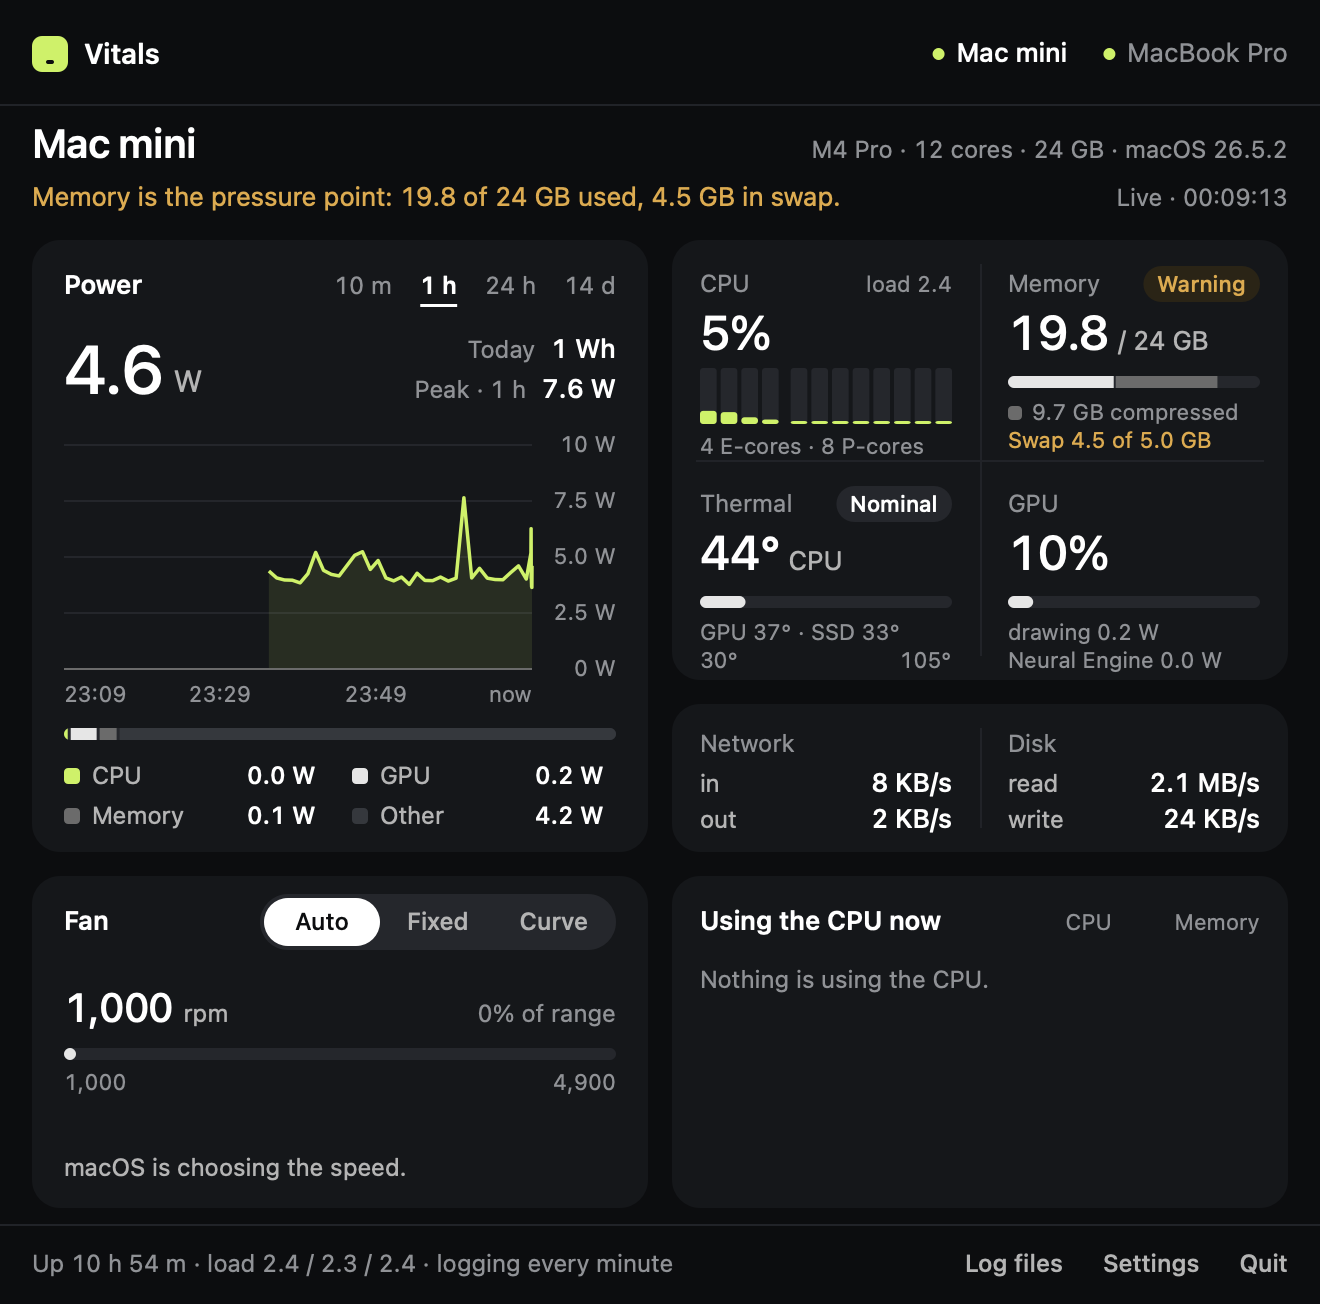
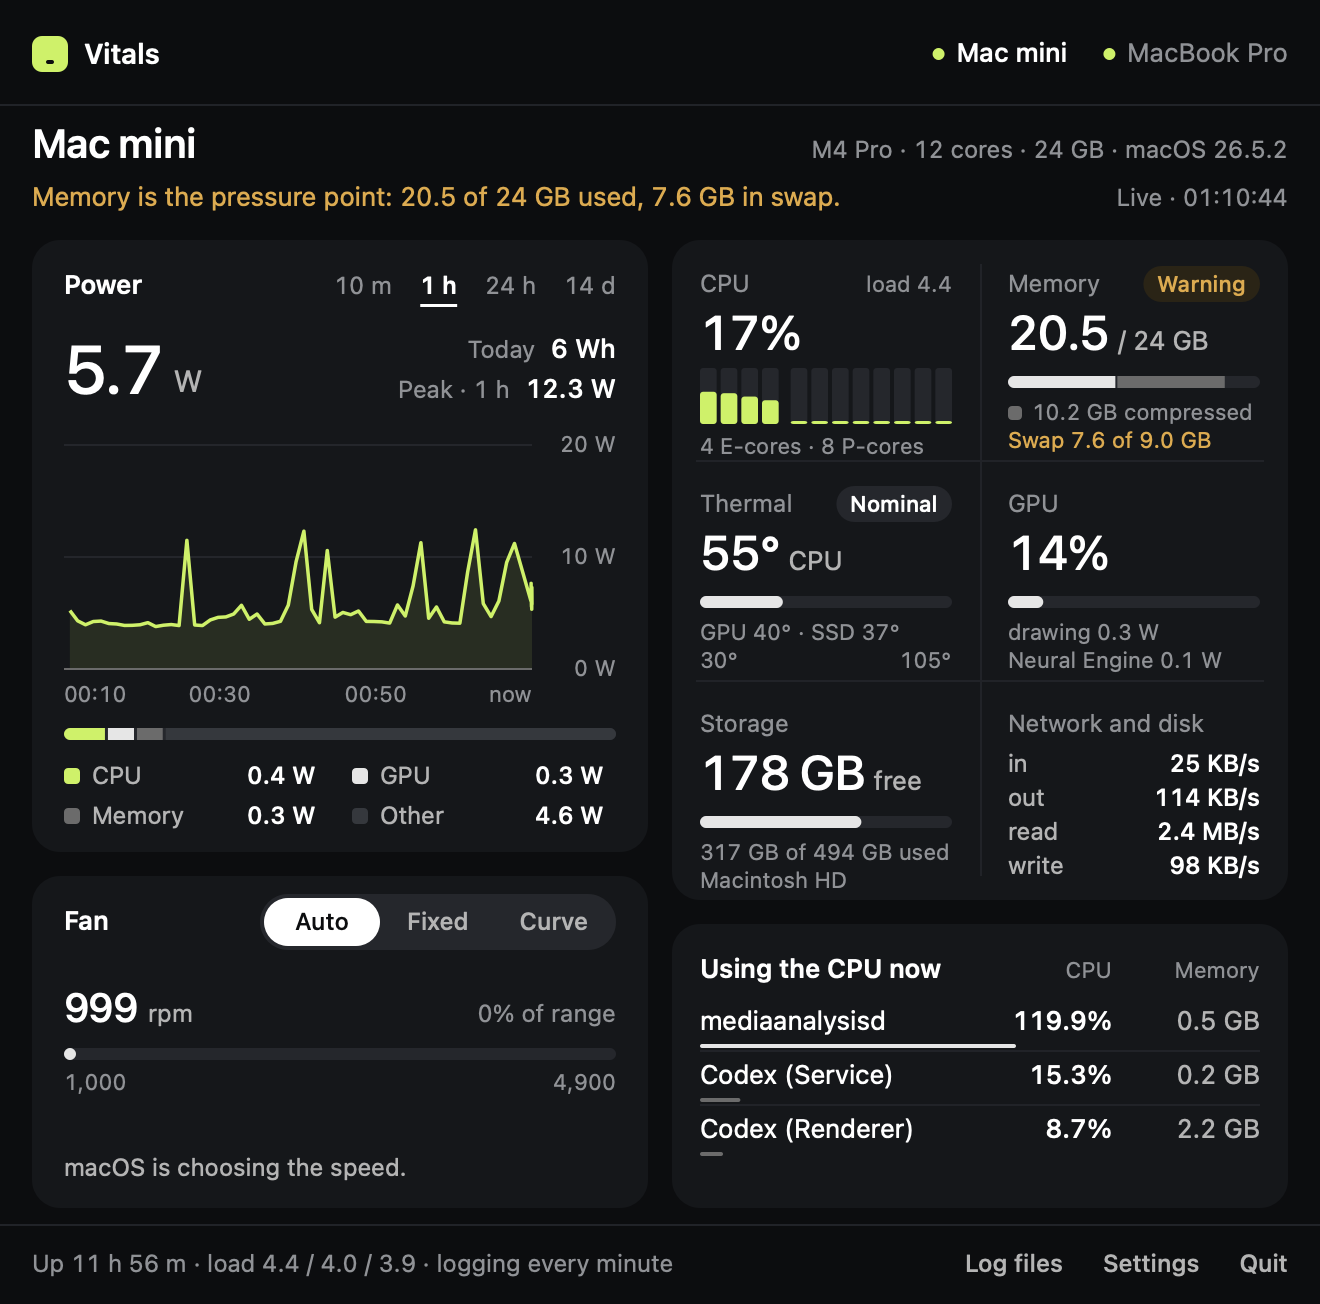
Show storage on each Mac; run fan writes through a root driver
Storage: the boot drive's free space (purgeable counted as Finder does) and
any other local drive, in a new grid cell with a Low / Almost full flag and
a finding when the boot drive is nearly full. Network and disk throughput
move into the same grid, replacing their separate card.

Fan control: the streaming agent now always runs as the user. When a fan
leaves Auto it starts the root-owned copy as a driver and hands it the
policy; going back to Auto, quitting or a dropped connection closes the
driver, which returns the fans to macOS. Agent updates no longer need the
root copy to be reinstalled.

Also: the finding line no longer says "nothing in particular" while the
process list is still loading.

diff --git a/Sources/App/Dashboard.swift b/Sources/App/Dashboard.swift
@@ -50,10 +50,7 @@ final class Dashboard: Canvas {
         let fanTop = left + gap
         left = fanTop
         fanCard(l, s, x: pad, y: &left)
-        let powerBottom = fanTop - gap
         pressureGrid(s, x: pad + colW + gap, y: &right)
-        right += gap
-        ioCard(s, x: pad + colW + gap, y: &right, bottom: powerBottom)
         right += gap
         procCard(s, x: pad + colW + gap, y: &right, bottom: left)
         let bottom = max(left, right)
@@ -117,12 +114,18 @@ final class Dashboard: Canvas {
     private func finding(_ l: HostLink, _ s: Snapshot?) -> (String, NSColor) {
         if case .offline(let why) = l.state { return (why, Theme.negative) }
         guard let s else { return (l.isLocal ? "Starting the agent on this Mac…" : "Connecting to \(l.sshHost ?? "")…", Theme.muted) }
-        let topProc = s.procs.first.map { $0.name } ?? "nothing in particular"
+        let topProc = s.procs.first?.name
         if s.thermal >= 2 { return ("Thermal pressure is \(s.thermal == 2 ? "serious" : "critical"): macOS is slowing the chip to cool it.", Theme.negative) }
+        if let b = s.volumes.first(where: \.boot), b.free < 8e9 || b.free / max(1, b.total) < 0.05 {
+            return ("Storage is almost full: \(Fmt.size(b.free)) free of \(Fmt.size(b.total)) on \(b.name).", Theme.negative)
+        }
         if s.pressure >= 4 { return ("Memory pressure is critical: \(Fmt.gb(s.swapUsed)) GB is in swap and apps are being squeezed.", Theme.negative) }
-        if let t = s.tCPU, t >= 90 { return ("CPU at \(Fmt.temp(t)) with fans at \(Fmt.rpm(s.fans.map(\.rpm).max() ?? 0)) rpm; \(topProc) is the main load.", Theme.warning) }
+        if let t = s.tCPU, t >= 90 {
+            let fans = s.fans.isEmpty ? "" : " with fans at \(Fmt.rpm(s.fans.map(\.rpm).max() ?? 0)) rpm"
+            return ("CPU at \(Fmt.temp(t))\(fans)" + (topProc.map { "; \($0) is the main load." } ?? "."), Theme.warning)
+        }
         if s.pressure >= 2 { return ("Memory is the pressure point: \(Fmt.gb(s.memUsed)) of \(Fmt.gb(s.memTotal, 0)) GB used, \(Fmt.gb(s.swapUsed)) GB in swap.", Theme.warning) }
-        if let c = s.cpu, c >= 70 { return ("CPU is busy at \(Fmt.pct(c)); \(topProc) is using the most.", Theme.text) }
+        if let c = s.cpu, c >= 70 { return ("CPU is busy at \(Fmt.pct(c))" + (topProc.map { "; \($0) is using the most." } ?? "."), Theme.text) }
         if let b = s.battery, !b.external {
             let left = b.minutesLeft.map { " · \(Fmt.duration(Double($0) * 60)) left at this rate" } ?? ""
             return ("On battery at \(Int(b.percent))%\(left).", Theme.text)
@@ -454,9 +457,10 @@ final class Dashboard: Canvas {
 
     private func pressureGrid(_ s: Snapshot?, x: CGFloat, y: inout CGFloat) {
         let w = colW, cellW = w / 2, cellH: CGFloat = 110, top = y
-        fill(NSRect(x: x, y: top, width: w, height: cellH * 2), Theme.surface, radius: 14)
-        vline(x + cellW, top + 12, cellH * 2 - 24, Theme.line)
+        fill(NSRect(x: x, y: top, width: w, height: cellH * 3), Theme.surface, radius: 14)
+        vline(x + cellW, top + 12, cellH * 3 - 24, Theme.line)
         hline(x + 12, top + cellH, w - 24, Theme.line)
+        hline(x + 12, top + cellH * 2, w - 24, Theme.line)
 
         // CPU: one bar per core, the chip drawn as itself.
         cell(x, top, "CPU", Fmt.pct(s?.cpu), sub: s.map { "load " + String(format: "%.1f", $0.load.first ?? 0) })
@@ -530,7 +534,33 @@ final class Dashboard: Canvas {
             drawText("drawing \(Fmt.wattsUnit(s.wGPU))", Theme.font(11), Theme.faint, mx + 14, ty + 79)
             drawText("Neural Engine \(Fmt.wattsUnit(s.wANE))", Theme.font(11), Theme.faint, mx + 14, ty + 93)
         }
-        y = top + cellH * 2
+
+        // Storage: the boot drive, then any other local drive.
+        let sy = top + cellH * 2
+        if let s, let boot = s.volumes.first(where: \.boot) ?? s.volumes.first {
+            cell(x, sy, "Storage", Fmt.size(boot.free), unit: "free")
+            let freeShare = boot.free / max(1, boot.total)
+            if freeShare < 0.05 || boot.free < 8e9 { pill("Almost full", Theme.pillBad, right: x + cellW - 14, sy + 13) }
+            else if freeShare < 0.12 { pill("Low", Theme.pillWarn, right: x + cellW - 14, sy + 13) }
+            let bar = NSRect(x: x + 14, y: sy + 68, width: cellW - 28, height: 6)
+            fill(bar, Theme.raised, radius: 3)
+            let usedColor = freeShare < 0.05 ? Theme.negative : freeShare < 0.12 ? Theme.warning : Theme.chart2
+            fill(NSRect(x: bar.minX, y: bar.minY, width: max(6, bar.width * CGFloat(1 - freeShare)), height: 6), usedColor, radius: 3)
+            drawText("\(Fmt.size(boot.total - boot.free)) of \(Fmt.size(boot.total)) used", Theme.font(11), Theme.faint, x + 14, sy + 79, maxWidth: cellW - 28)
+            let others = s.volumes.filter { $0 != boot }
+            let more = others.first.map { "\($0.name) · \(Fmt.size($0.free)) free" + (others.count > 1 ? " +\(others.count - 1)" : "") } ?? boot.name
+            drawText(more, Theme.font(11), Theme.faint, x + 14, sy + 93, maxWidth: cellW - 28)
+        } else { cell(x, sy, "Storage", "—") }
+
+        // Network and disk throughput.
+        drawText("Network and disk", Theme.font(12), Theme.faint, mx + 14, sy + 14)
+        let rows: [(String, Double?)] = [("in", s?.netIn), ("out", s?.netOut), ("read", s?.diskRead), ("write", s?.diskWrite)]
+        for (j, (name, v)) in rows.enumerated() {
+            let ry = sy + 34 + CGFloat(j) * 17
+            drawText(name, Theme.font(12), Theme.muted, mx + 14, ry)
+            drawText(Fmt.rate(v), Theme.font(12, .medium), Theme.text, mx + cellW - 14, ry, align: .right)
+        }
+        y = top + cellH * 3
     }
 
     private func cell(_ x: CGFloat, _ y: CGFloat, _ label: String, _ value: String, unit: String? = nil, sub: String? = nil) {
@@ -542,22 +572,6 @@ final class Dashboard: Canvas {
     }
 
     // MARK: network and disk
-
-    private func ioCard(_ s: Snapshot?, x: CGFloat, y: inout CGFloat, bottom: CGFloat) {
-        let w = colW, top = y, h = max(70, bottom - top)
-        fill(NSRect(x: x, y: top, width: w, height: h), Theme.surface, radius: 14)
-        vline(x + w / 2, top + 12, h - 24, Theme.line)
-        for (i, (label, a, b)) in [("Network", ("in", s?.netIn), ("out", s?.netOut)), ("Disk", ("read", s?.diskRead), ("write", s?.diskWrite))].enumerated() {
-            let cx = x + CGFloat(i) * w / 2 + 14, cw = w / 2 - 28
-            drawText(label, Theme.font(12), Theme.faint, cx, top + 12)
-            for (j, (name, v)) in [a, b].enumerated() {
-                let ry = top + 32 + CGFloat(j) * 18
-                drawText(name, Theme.font(12), Theme.muted, cx, ry)
-                drawText(Fmt.rate(v), Theme.font(13, .medium), Theme.text, cx + cw, ry - 1, align: .right)
-            }
-        }
-        y = top + h
-    }
 
     // MARK: processes
 

diff --git a/Sources/Agent/main.swift b/Sources/Agent/main.swift
@@ -22,20 +22,65 @@ func fail(_ msg: String) -> Never { FileHandle.standardError.write((msg + "\n").
 
 var signalSources: [DispatchSourceSignal] = []
 
+/// Fan writes need root. The streaming agent runs as you; when a fan leaves Auto it starts the
+/// root-owned copy (allowed by the sudo rule from `setup-root`) as a driver and passes it the policy.
+/// Closing the driver's input hands the fans back to macOS, also if this agent dies.
+final class FanDriver {
+    static let path = rootPath
+    let available: Bool
+    private(set) var policy = "auto"
+    private var proc: Process?
+    private var input: FileHandle?
+
+    init() {
+        available = FileManager.default.isExecutableFile(atPath: Self.path) && run("/usr/bin/sudo", ["-n", "-l", Self.path, "stream"]) == 0
+    }
+
+    func set(_ p: String) {
+        policy = p
+        guard available else { return }
+        if p == "auto" { stop(); return }
+        if proc?.isRunning != true { start() }
+        send("fan \(p)")
+    }
+
+    private func start() {
+        let p = Process()
+        p.executableURL = URL(fileURLWithPath: "/usr/bin/sudo")
+        p.arguments = ["-n", Self.path, "stream"]
+        let pipe = Pipe()
+        p.standardInput = pipe
+        p.standardOutput = FileHandle.nullDevice
+        p.standardError = FileHandle.nullDevice
+        guard (try? p.run()) != nil else { return }
+        proc = p; input = pipe.fileHandleForWriting
+        send("interval 2")
+    }
+
+    func stop() {
+        try? input?.close()
+        input = nil; proc = nil
+    }
+
+    private func send(_ line: String) { try? input?.write(contentsOf: Data((line + "\n").utf8)) }
+}
+
 func stream() -> Never {
     let sampler = Sampler(procs: false)
     let fans = (geteuid() == 0) ? sampler.smc.map { FanControl(smc: $0) } : nil
+    let driver = fans == nil ? FanDriver() : nil
     var interval = 2.0
     let timer = DispatchSource.makeTimerSource(queue: .main)
 
     func tick() {
         var s = sampler.sample()
         fans?.apply(cpuTemp: s.tCPU)
-        s.fanPolicy = fans?.policy.text ?? "auto"
+        s.fanPolicy = fans?.policy.text ?? driver?.policy ?? "auto"
+        if let driver { s.root = driver.available }
         emit(s)
     }
     func schedule() { timer.schedule(deadline: .now() + interval, repeating: interval, leeway: .milliseconds(Int(interval * 100))) }
-    func quit() -> Never { fans?.release(); exit(0) }
+    func quit() -> Never { fans?.release(); driver?.stop(); usleep(300_000); exit(0) }
 
     timer.setEventHandler(handler: tick)
     _ = sampler.sample()                        // prime the counters so the first line has rates
@@ -59,7 +104,8 @@ func stream() -> Never {
             DispatchQueue.main.async {
                 switch w.first {
                 case "interval": if let v = w.dropFirst().first.flatMap(Double.init), v >= 0.5, v <= 60 { interval = v; schedule() }
-                case "fan": if let p = FanControl.Policy(Array(w.dropFirst())) { fans?.set(p); tick() }
+                case "fan":
+                    if let p = FanControl.Policy(Array(w.dropFirst())) { fans?.set(p); driver?.set(p.text); tick() }
                 case "now": tick()
                 case "procs": sampler.withProcs = w.dropFirst().first == "on"
                 default: break

diff --git a/Sources/Core/Sampler.swift b/Sources/Core/Sampler.swift
@@ -52,6 +52,7 @@ final class Sampler {
     private var ssdKey: String?
     private var hotKeys: [String] = []      // the hottest CPU sensors at the last full scan
     private var ticks = 0
+    private var volumeCache: (Date, [Volume]) = (.distantPast, [])
     private lazy var hasBattery = !registryProperty("AppleSmartBattery", "CurrentCapacity").isEmpty
     private let eCores = (sysctlString("hw.perflevel1.name") == "Efficiency") ? (sysctlInt("hw.perflevel1.logicalcpu") ?? 0) : 0
 
@@ -90,6 +91,7 @@ final class Sampler {
         if s.wSystem == nil, let b = s.battery, let w = b.inWatts { s.wSystem = w }
         sampleIO(&s)
         if withProcs { s.procs = topProcs() } else { prevProcTime = 0 }
+        s.volumes = volumes()
         var boot = timeval(), size = MemoryLayout<timeval>.size
         if sysctlbyname("kern.boottime", &boot, &size, nil, 0) == 0 { s.uptime = s.t - Double(boot.tv_sec) }
         s.thermal = ProcessInfo.processInfo.thermalState.rawValue
@@ -223,6 +225,24 @@ final class Sampler {
         }
         if let p = prevDisk, now > p.2 { s.diskRead = max(0, rd - p.0) / (now - p.2); s.diskWrite = max(0, wr - p.1) / (now - p.2) }
         prevDisk = (rd, wr, now)
+    }
+
+    /// The boot volume and any other local drives. Free space counts purgeable files, as Finder does;
+    /// working that out is slow, so it is refreshed once a minute.
+    private func volumes() -> [Volume] {
+        if Date().timeIntervalSince(volumeCache.0) < 60 { return volumeCache.1 }
+        let keys: [URLResourceKey] = [.volumeLocalizedNameKey, .volumeTotalCapacityKey, .volumeAvailableCapacityForImportantUsageKey,
+                                      .volumeAvailableCapacityKey, .volumeIsRootFileSystemKey, .volumeIsLocalKey, .volumeIsBrowsableKey]
+        let urls = FileManager.default.mountedVolumeURLs(includingResourceValuesForKeys: keys, options: [.skipHiddenVolumes]) ?? []
+        let vols: [Volume] = urls.compactMap { u in
+            guard let r = try? u.resourceValues(forKeys: Set(keys)), r.volumeIsLocal == true, r.volumeIsBrowsable != false,
+                  let total = r.volumeTotalCapacity, total > 1_000_000_000 else { return nil }
+            let boot = r.volumeIsRootFileSystem == true
+            let free = r.volumeAvailableCapacityForImportantUsage.map(Double.init) ?? Double(r.volumeAvailableCapacity ?? 0)
+            return Volume(name: r.volumeLocalizedName ?? u.lastPathComponent, total: Double(total), free: free, boot: boot)
+        }.sorted { $0.boot && !$1.boot }
+        volumeCache = (Date(), vols)
+        return vols
     }
 
     /// The eight processes using the most CPU since the last sample, helpers grouped under one name.

diff --git a/Sources/Core/Model.swift b/Sources/Core/Model.swift
@@ -2,7 +2,7 @@ import Foundation
 
 // The wire format between the agent (on each Mac) and the menu bar app: one JSON object per line.
 
-let vitalsVersion = "1.0.3"
+let vitalsVersion = "1.0.4"
 
 struct Fan: Codable, Equatable {
     var rpm: Double
@@ -23,6 +23,13 @@ struct Battery: Codable, Equatable {
     var health: Double?           // % of design capacity
     var minutesLeft: Int?
     var temp: Double?
+}
+
+struct Volume: Codable, Equatable {
+    var name: String
+    var total: Double             // bytes
+    var free: Double              // bytes available, purgeable space counted as free (as Finder does)
+    var boot: Bool
 }
 
 struct Proc: Codable, Equatable {
@@ -76,6 +83,7 @@ struct Snapshot: Codable {
     var netOut: Double?
     var diskRead: Double?
     var diskWrite: Double?
+    var volumes: [Volume] = []
     var procs: [Proc] = []
     var uptime: Double = 0
 }

diff --git a/Sources/App/Theme.swift b/Sources/App/Theme.swift
@@ -51,6 +51,11 @@ enum Fmt {
         if b < 1_000_000_000 { return String(format: "%.1f MB/s", b / 1_000_000) }
         return String(format: "%.2f GB/s", b / 1_000_000_000)
     }
+    /// Drive sizes in decimal units, as Finder shows them.
+    static func size(_ b: Double) -> String {
+        if b >= 1e12 { return String(format: "%.2f TB", b / 1e12) }
+        return b >= 1e11 ? String(format: "%.0f GB", b / 1e9) : String(format: "%.1f GB", b / 1e9)
+    }
     static func temp(_ t: Double?) -> String { t.map { String(format: "%.0f°", $0) } ?? "—" }
     static func pct(_ p: Double?) -> String { p.map { String(format: "%.0f%%", $0) } ?? "—" }
     static let grouped: NumberFormatter = { let f = NumberFormatter(); f.numberStyle = .decimal; f.maximumFractionDigits = 0; return f }()

diff --git a/Sources/App/main.swift b/Sources/App/main.swift
@@ -74,7 +74,7 @@ final class AppDelegate: NSObject, NSApplicationDelegate {
                 self.snapshot(StatusBarPreview(image: StatusRenderer.image(for: self.links)), to: dir.appendingPathComponent("menubar.png"))
                 NSApp.terminate(nil)
             }
-            for l in links { l.interval = 1 }
+            for l in links { l.interval = 1; l.wantsProcs = true }
             DispatchQueue.main.asyncAfter(deadline: .now() + 4) { self.links.forEach { $0.fetchHistory() } }
         }
 

diff --git a/Sources/App/HostLink.swift b/Sources/App/HostLink.swift
@@ -55,9 +55,8 @@ final class HostLink {
 
     private var streamScript: String {
         """
-        A="\(agentPath())"; R=/usr/local/libexec/vitals-agent
+        A="\(agentPath())"
         [ "$("$A" version 2>/dev/null)" = "\(vitalsVersion)" ] || { echo NEEDS_AGENT; exit 3; }
-        if [ -x "$R" ] && sudo -n -l "$R" stream >/dev/null 2>&1; then exec sudo -n "$R" stream; fi
         exec "$A" stream
         """
     }

diff --git a/README.md b/README.md
@@ -21,6 +21,8 @@ from your laptop — without installing a 100 MB monitoring suite on either.
 - **Pressure, in every sense** — a bar per CPU core, load, memory pressure and swap, macOS thermal
   pressure, CPU/GPU/SSD temperatures, GPU load, network and disk throughput, and the processes behind
   the load.
+- **Storage** — free space on each Mac's drive (counted as Finder counts it) and any other local drive,
+  flagged when it runs low.
 - **One finding** — a sentence under the title says what needs attention ("Memory is the pressure
   point: 19.8 of 24 GB used, 4.5 GB in swap").
 - **Fans** — Auto, Fixed (drag to a speed) or Curve (follows CPU temperature between two points).
@@ -70,7 +72,8 @@ there by itself.
 Writing fan speeds needs root, so it is opt-in, once per Mac: **Settings → Fan control → Set up**.
 It asks for your password once, then installs a root-owned copy of the agent at
 `/usr/local/libexec/vitals-agent` and a sudo rule that allows exactly `vitals-agent stream` and nothing
-else. By hand:
+else. Only fan writes go through that copy; everything else runs as you, so updating Vitals never
+asks for the password again. By hand:
 
 ```bash
 sudo "$HOME/Library/Application Support/Vitals/bin/vitals-agent" setup-root
@@ -95,6 +98,7 @@ Fan control talks to the SMC directly, as those apps do; use it at your own risk
 | --- | --- | --- |
 | `Vitals.app` | your Mac | Menu bar item and panel. |
 | `vitals-agent stream` | each Mac | Reads the SMC (temperatures, fans, system watts), IOReport (CPU/GPU/memory energy), CPU ticks, VM stats and I/O counters; prints one JSON line per tick. The remote one runs over a single SSH connection. |
+| root-owned `vitals-agent` | each Mac, only while a fan is off Auto | Writes fan speeds. Started by the agent when you pick Fixed or Curve, stopped when you go back to Auto. |
 | `vitals-agent log` | each Mac, under launchd | Writes the per-minute log to `~/Library/Application Support/Vitals/Logs/`. |
 
 No network traffic leaves your machines except that SSH connection. No analytics, no accounts.
